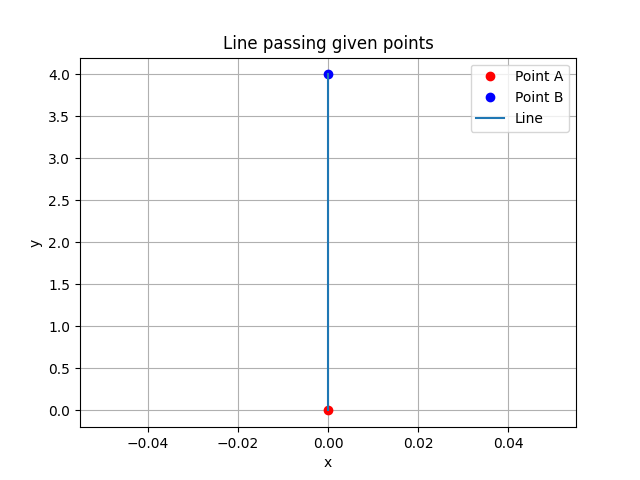
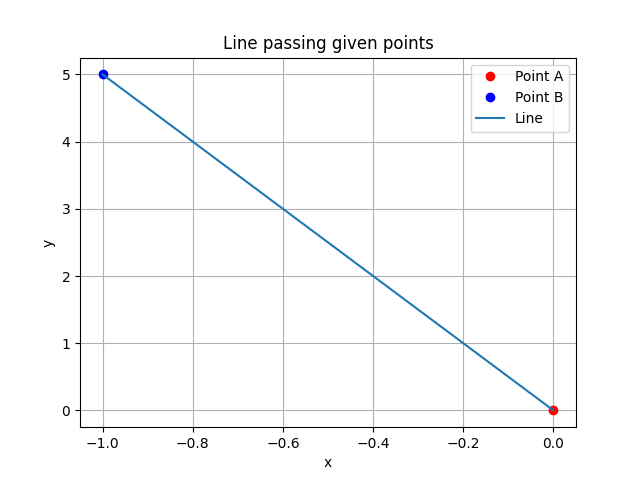
EE1030

diff --git a/Assignment-3/main.tex b/Assignment-3/main.tex
@@ -81,6 +81,8 @@ Thus the desired distance is \\
     d = \norm{P - Q} = \sqrt{(b - a)^2 + (a + b)^2}
 \end{align}
 
+\newpage
+Assuming the points a = 8 and b = 10 \\
 \begin{figure}[h!]
    \centering
    \includegraphics[width=0.7\linewidth]{figs/fig.png}

diff --git a/Assignment-3/codes/distance.c b/Assignment-3/codes/distance.c
@@ -14,7 +14,7 @@ int main()
     float a, b;
     float x1 = 0, y1 = 0;
     a = 2;
-    b = 2;
+    b = 3;
     float x2 = (a - b);
     float y2 = (a + b);
 

diff --git a/Assignment-3/codes/plot.py b/Assignment-3/codes/plot.py
@@ -9,7 +9,7 @@ x = points[:, 0]
 y = points[:, 1]
 
 A = np.array([0, 0])
-B = np.array([0, 4])
+B = np.array([-1, 5])
 
 
 
